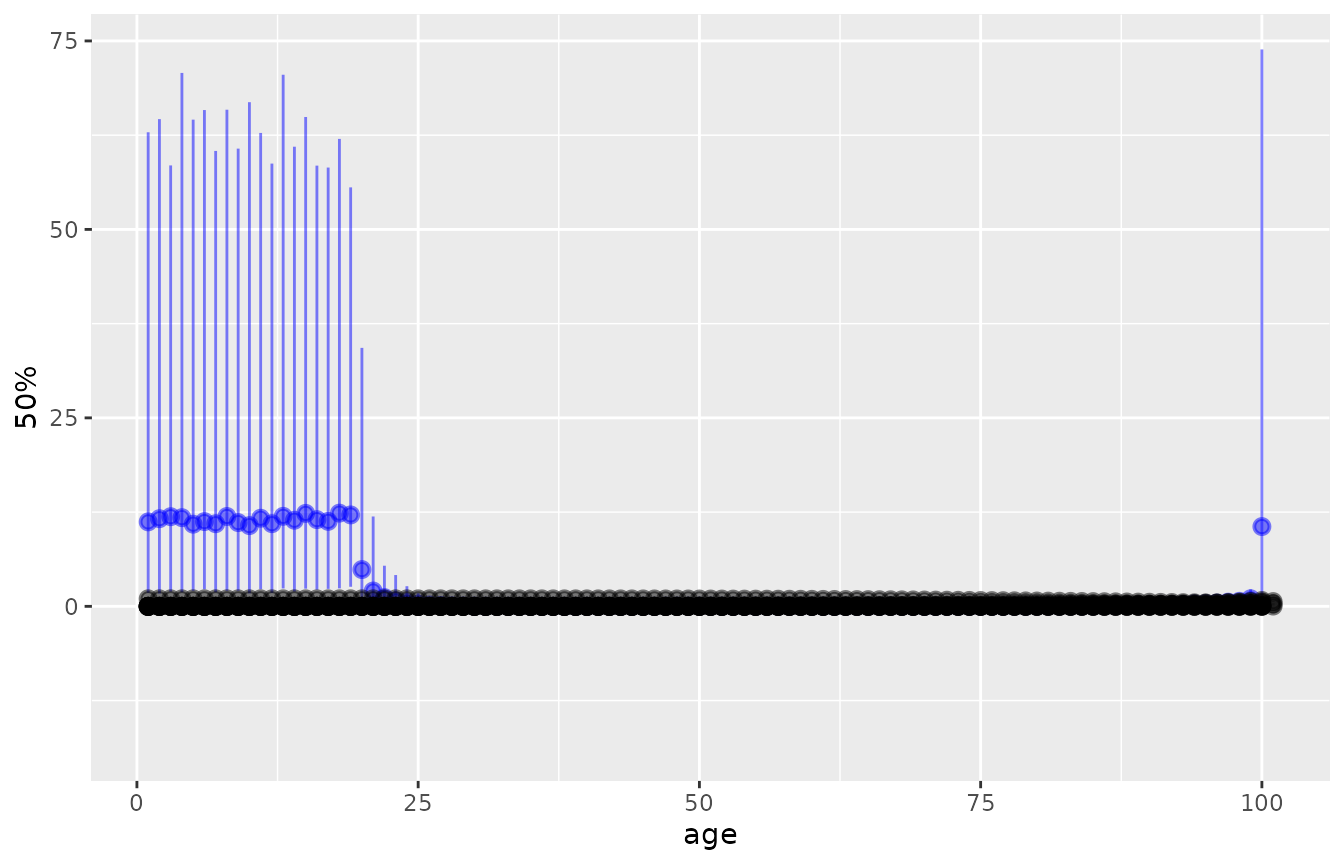
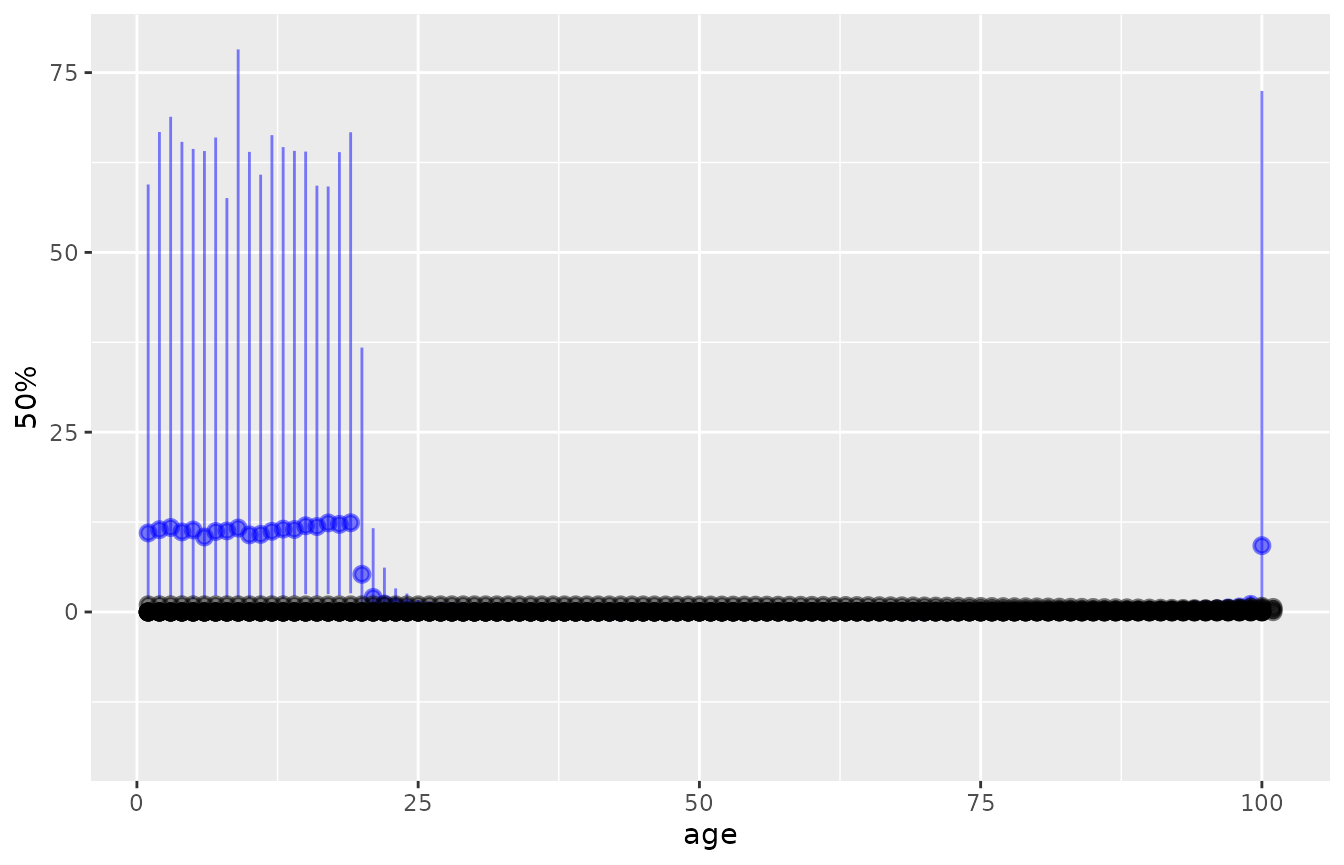
Built site for disbayes: 0.1@e78b009

diff --git a/articles/disbayes.html b/articles/disbayes.html
@@ -325,12 +325,12 @@
   <span class="fu"><a href="https://dplyr.tidyverse.org/reference/filter.html">filter</a></span><span class="op">(</span><span class="va">var</span><span class="op">==</span><span class="st">"cf"</span>, <span class="fu"><a href="https://dplyr.tidyverse.org/reference/between.html">between</a></span><span class="op">(</span><span class="va">age</span>,<span class="fl">60</span>,<span class="fl">65</span><span class="op">)</span><span class="op">)</span> <span class="op">%&gt;%</span>
   <span class="fu"><a href="https://dplyr.tidyverse.org/reference/select.html">select</a></span><span class="op">(</span><span class="va">age</span>, <span class="va">`25%`</span>, <span class="va">`50%`</span>, <span class="va">`75%`</span><span class="op">)</span></code></pre></div>
 <pre><code>##   age        25%        50%        75%
-## 1  60 0.01549534 0.01672636 0.01784005
-## 2  61 0.01573965 0.01696610 0.01802680
-## 3  62 0.01601810 0.01714155 0.01820711
-## 4  63 0.01627777 0.01734339 0.01843355
-## 5  64 0.01651990 0.01760964 0.01864284
-## 6  65 0.01681737 0.01790178 0.01892891</code></pre>
+## 1  60 0.01541191 0.01654815 0.01782957
+## 2  61 0.01567086 0.01678423 0.01800765
+## 3  62 0.01592518 0.01703867 0.01820423
+## 4  63 0.01617461 0.01729096 0.01837473
+## 5  64 0.01646950 0.01755303 0.01864872
+## 6  65 0.01679472 0.01785409 0.01895703</code></pre>
 <p>The default <code>plot</code> method for objects returned by <code>disbayes</code> plots the posterior summaries for case fatality, allowing a quick check of the model results. Or do <code><a href="https://rdrr.io/r/graphics/plot.default.html">plot(..., variable="inc")</a></code> for incidence. The function returns a <code>ggplot2</code> object that can be modified with <code>ggplot2</code> functions, e.g. to add axis labels.</p>
 <div class="sourceCode" id="cb17"><pre class="downlit sourceCode r">
 <code class="sourceCode R"><span class="kw"><a href="https://rdrr.io/r/base/library.html">library</a></span><span class="op">(</span><span class="va"><a href="https://ggplot2.tidyverse.org">ggplot2</a></span><span class="op">)</span>

diff --git a/reference/looi_disbayes.html b/reference/looi_disbayes.html
@@ -131,10 +131,6 @@ as a tidy data frame.</p>
       <th>x</th>
       <td><p>Object returned by <code><a href='disbayes.html'>disbayes</a></code>.</p></td>
     </tr>
-    <tr>
-      <th>looname</th>
-      <td><p><code>loo</code> for smoothed model, <code>loou</code> for unsmoothed model.</p></td>
-    </tr>
     </table>
 
     <h2 class="hasAnchor" id="details"><a class="anchor" href="#details"></a>Details</h2>
